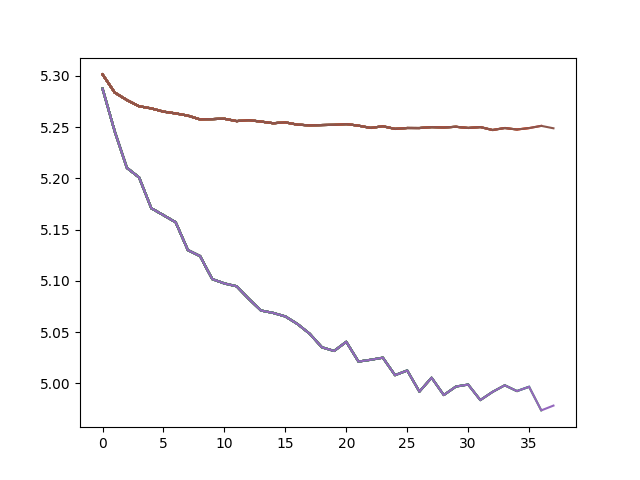
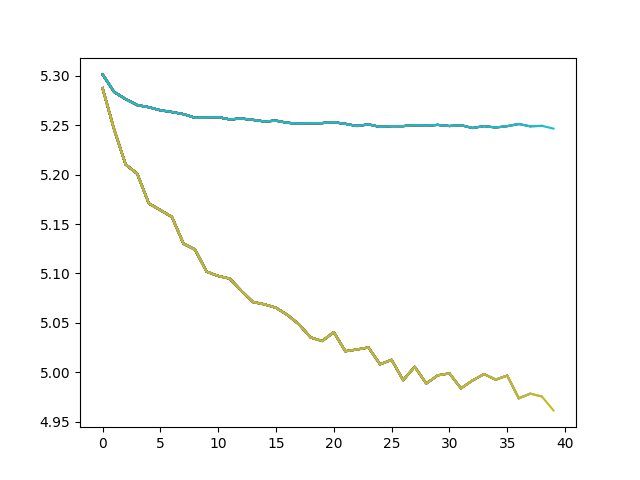
final

diff --git a/resnet_full.py b/resnet_full.py
@@ -18,10 +18,10 @@ import matplotlib.pyplot as plt
 import numpy as np
 
 
-NAME = "run_4_resnet_full_l2_0_epochs_100_lr_1e-4"
+NAME = "final_resnet_full_l2_0_epochs_100_lr_3e-4"
 
-EPOCHS = 100
-lr = 1e-4
+EPOCHS = 200
+lr = 3e-4
 l2 = 0
 
 # dataset/dataloader stuff
@@ -38,13 +38,17 @@ transform = transforms.Compose([
             transforms.Normalize([0.485, 0.456, 0.406], [0.229, 0.224, 0.225]) # normalize the images color channels
         ])
 
+val_transform = transforms.Compose([
+            transforms.Resize((224,224)),
+            transforms.ToTensor(), # convert the images to a PyTorch tensor
+            transforms.Normalize([0.485, 0.456, 0.406], [0.229, 0.224, 0.225]) # normalize the images color channels
+        ])
+
 train_set = Country211("./", "train", transform=transform)
-val_set = Country211("./", "valid", transform=transform)
-test_set = Country211("./", "test", transform=transform)
+val_set = Country211("./", "valid", transform=val_transform)
 
 train_loader = torch.utils.data.DataLoader(train_set, batch_size=batch_size, shuffle=True)
 val_loader = torch.utils.data.DataLoader(val_set, batch_size=batch_size, shuffle=True)
-test_loader = torch.utils.data.DataLoader(test_set, batch_size=batch_size, shuffle=True)
 
 # pretrained backbone
 
@@ -95,17 +99,30 @@ optimizer = torch.optim.Adam(list(feature_extractor.parameters()) + list(classif
 N_batch = 40
 
 train_losses = []
-# train_accuracies = []
+train_accuracies = []
 
 val_losses = []
-# val_accuracies = []
+val_accuracies = []
 
-feature_extractor.eval()
+# pulled from https://pytorch.org/ignite/generated/ignite.metrics.TopKCategoricalAccuracy.html
+def process_function(engine, batch):
+    y_pred, y = batch
+    return y_pred, y
+
+def one_hot_to_binary_output_transform(output):
+    y_pred, y = output
+    y = torch.argmax(y, dim=1)  # one-hot vector to label index vector
+    return y_pred, y
+
+engine = Engine(process_function)
+accuracy = TopKCategoricalAccuracy(k=1, output_transform=one_hot_to_binary_output_transform, device=device)
+accuracy.attach(engine, 'top_1_accuracy')
+
+# main train loop
 
 for epoch in range(EPOCHS):
     print(f"Epoch {epoch}")
 
-    feature_extractor.train()
     classification_head.train()
 
     for i, (sample, target) in tqdm(enumerate(train_loader), total=len(train_loader)-1):
@@ -113,7 +130,7 @@ for epoch in range(EPOCHS):
 
         one_hot_target = nn.functional.one_hot(target, num_classes = 211).type(torch.FloatTensor).to(device)
 
-        output = feature_extractor(sample.to(device))        
+        output = feature_extractor(sample.to(device))
         output = classification_head(output["avgpool"])
 
         loss = crossentropy_loss(output, one_hot_target)
@@ -125,10 +142,10 @@ for epoch in range(EPOCHS):
         del sample
         del target
     
-    feature_extractor.eval()
     classification_head.eval()
 
     temp_losses = []
+    temp_accuracies = []
 
     for i, (sample, target) in tqdm(enumerate(train_loader), total=N_batch):
         one_hot_target = nn.functional.one_hot(target, num_classes = 211).type(torch.FloatTensor).to(device)
@@ -141,15 +158,23 @@ for epoch in range(EPOCHS):
 
         temp_losses += [loss.item()]
 
+        state = engine.run([[output, one_hot_target]])
+        accuracy = state.metrics['top_1_accuracy']*100
+        temp_accuracies += [accuracy]
+
         del sample
         del target
         
         if i == N_batch-1:
             train_losses.append(np.mean(np.array(temp_losses)))
             print("Train loss: " + str(np.mean(np.array(temp_losses))))
+
+            train_accuracies.append(np.mean(np.array(temp_accuracies)))
+            print("Train accuracy: " + str(np.mean(np.array(temp_accuracies))))
             break
     
     temp_losses = []
+    temp_accuracies = []
 
     for i, (sample, target) in tqdm(enumerate(val_loader), total=len(val_loader)-1):
         one_hot_target = nn.functional.one_hot(target, num_classes = 211).type(torch.FloatTensor).to(device)
@@ -161,18 +186,30 @@ for epoch in range(EPOCHS):
         loss = crossentropy_loss(output, one_hot_target)
 
         temp_losses += [loss.item()]
+
+        state = engine.run([[output, one_hot_target]])
+        accuracy = state.metrics['top_1_accuracy']*100
+        temp_accuracies += [accuracy]
         
         if i == len(val_loader)-1:
             val_losses.append(np.mean(np.array(temp_losses)))
             print("Val loss: " + str(np.mean(np.array(temp_losses))))
 
+            val_accuracies.append(np.mean(np.array(temp_accuracies)))
+            print("Val accuracy: " + str(np.mean(np.array(temp_accuracies))))
+
             plt.plot(train_losses)
             plt.plot(val_losses)
             plt.savefig("loss_graphs/" + NAME + ".png")
 
-            # save feature extractor, and head
+            plt.figure()
 
-            torch.save(feature_extractor, "models/feature_extractor_" + NAME)
+            plt.plot(train_accuracies)
+            plt.plot(val_accuracies)
+            plt.savefig("accuracy_graphs/" + NAME + ".png")
+
+            # save head
+
             torch.save(classification_head, "models/" + NAME)
 
         del sample

diff --git a/resnet_simple.py b/resnet_simple.py
@@ -18,10 +18,10 @@ import matplotlib.pyplot as plt
 import numpy as np
 
 
-NAME = "resnet_simple_l2_0_epochs_100_lr_1e-3"
+NAME = "final_resnet_simple_l2_0_epochs_100_lr_3e-4"
 
-EPOCHS = 100
-lr = 1e-3
+EPOCHS = 200
+lr = 3e-4
 l2 = 0
 
 # dataset/dataloader stuff
@@ -38,13 +38,17 @@ transform = transforms.Compose([
             transforms.Normalize([0.485, 0.456, 0.406], [0.229, 0.224, 0.225]) # normalize the images color channels
         ])
 
+val_transform = transforms.Compose([
+            transforms.Resize((224,224)),
+            transforms.ToTensor(), # convert the images to a PyTorch tensor
+            transforms.Normalize([0.485, 0.456, 0.406], [0.229, 0.224, 0.225]) # normalize the images color channels
+        ])
+
 train_set = Country211("./", "train", transform=transform)
-val_set = Country211("./", "valid", transform=transform)
-test_set = Country211("./", "test", transform=transform)
+val_set = Country211("./", "valid", transform=val_transform)
 
 train_loader = torch.utils.data.DataLoader(train_set, batch_size=batch_size, shuffle=True)
 val_loader = torch.utils.data.DataLoader(val_set, batch_size=batch_size, shuffle=True)
-test_loader = torch.utils.data.DataLoader(test_set, batch_size=batch_size, shuffle=True)
 
 # pretrained backbone
 
@@ -95,12 +99,26 @@ optimizer = torch.optim.Adam(classification_head.parameters(), lr=lr)
 N_batch = 40
 
 train_losses = []
-# train_accuracies = []
+train_accuracies = []
 
 val_losses = []
-# val_accuracies = []
+val_accuracies = []
 
-feature_extractor.eval()
+# pulled from https://pytorch.org/ignite/generated/ignite.metrics.TopKCategoricalAccuracy.html
+def process_function(engine, batch):
+    y_pred, y = batch
+    return y_pred, y
+
+def one_hot_to_binary_output_transform(output):
+    y_pred, y = output
+    y = torch.argmax(y, dim=1)  # one-hot vector to label index vector
+    return y_pred, y
+
+engine = Engine(process_function)
+accuracy = TopKCategoricalAccuracy(k=1, output_transform=one_hot_to_binary_output_transform, device=device)
+accuracy.attach(engine, 'top_1_accuracy')
+
+# main train loop
 
 for epoch in range(EPOCHS):
     print(f"Epoch {epoch}")
@@ -129,6 +147,7 @@ for epoch in range(EPOCHS):
     classification_head.eval()
 
     temp_losses = []
+    temp_accuracies = []
 
     for i, (sample, target) in tqdm(enumerate(train_loader), total=N_batch):
         one_hot_target = nn.functional.one_hot(target, num_classes = 211).type(torch.FloatTensor).to(device)
@@ -141,15 +160,23 @@ for epoch in range(EPOCHS):
 
         temp_losses += [loss.item()]
 
+        state = engine.run([[output, one_hot_target]])
+        accuracy = state.metrics['top_1_accuracy']*100
+        temp_accuracies += [accuracy]
+
         del sample
         del target
         
         if i == N_batch-1:
             train_losses.append(np.mean(np.array(temp_losses)))
             print("Train loss: " + str(np.mean(np.array(temp_losses))))
+
+            train_accuracies.append(np.mean(np.array(temp_accuracies)))
+            print("Train accuracy: " + str(np.mean(np.array(temp_accuracies))))
             break
     
     temp_losses = []
+    temp_accuracies = []
 
     for i, (sample, target) in tqdm(enumerate(val_loader), total=len(val_loader)-1):
         one_hot_target = nn.functional.one_hot(target, num_classes = 211).type(torch.FloatTensor).to(device)
@@ -161,14 +188,27 @@ for epoch in range(EPOCHS):
         loss = crossentropy_loss(output, one_hot_target)
 
         temp_losses += [loss.item()]
+
+        state = engine.run([[output, one_hot_target]])
+        accuracy = state.metrics['top_1_accuracy']*100
+        temp_accuracies += [accuracy]
         
         if i == len(val_loader)-1:
             val_losses.append(np.mean(np.array(temp_losses)))
             print("Val loss: " + str(np.mean(np.array(temp_losses))))
 
+            val_accuracies.append(np.mean(np.array(temp_accuracies)))
+            print("Val accuracy: " + str(np.mean(np.array(temp_accuracies))))
+
             plt.plot(train_losses)
             plt.plot(val_losses)
             plt.savefig("loss_graphs/" + NAME + ".png")
+
+            plt.figure()
+
+            plt.plot(train_accuracies)
+            plt.plot(val_accuracies)
+            plt.savefig("accuracy_graphs/" + NAME + ".png")
 
             # save head
 
